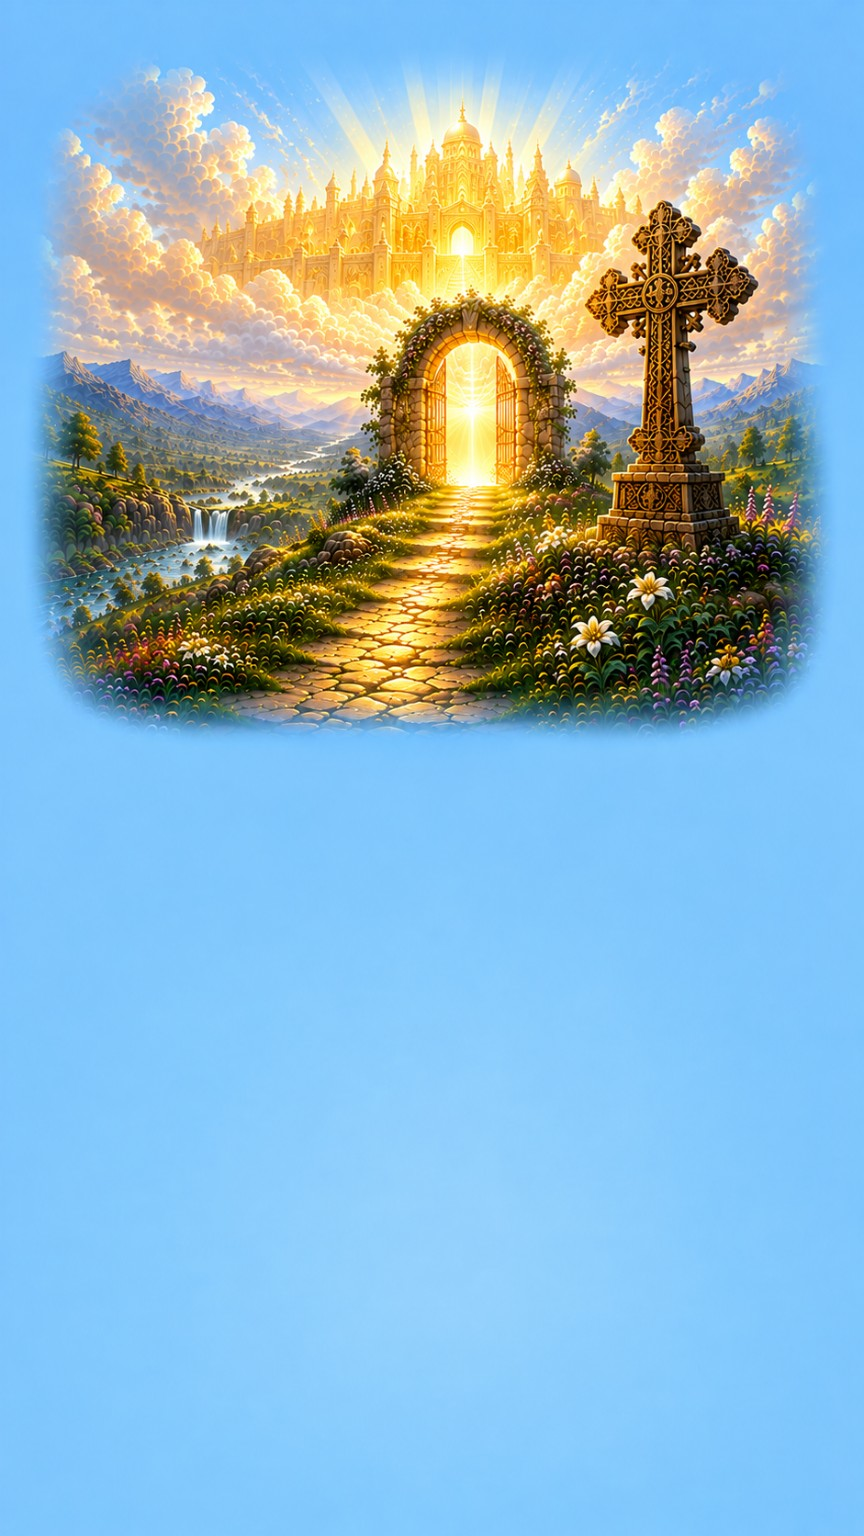
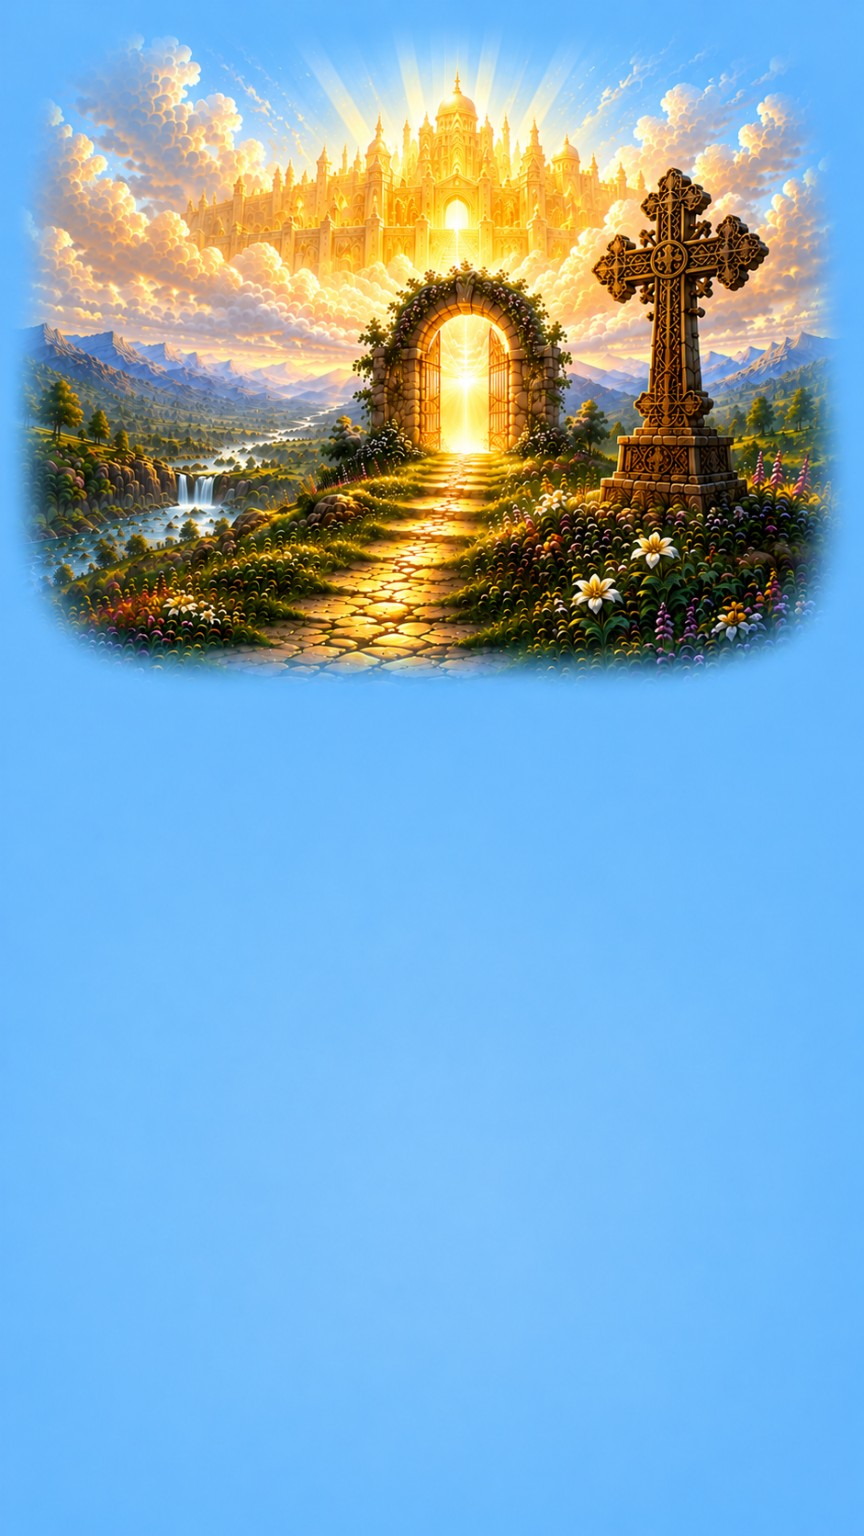
Add files via upload

diff --git a/sw.js b/sw.js
@@ -1,5 +1,5 @@
-const CACHE_NAME="oraciones-v2-287-tarjetas-actualizadas";
-const CORE=["./","./index.html","./manifest.json?v=v3-1-263-sin-calendario","./jszip.min.js?v=v3-1-63-share-history-persist","./jszip.min.js","./styles.css?v=2.287","./themes.css?v=v3-1-63-share-history-persist","./welcome.js?v=v3-1-63-share-history-persist","./config.js?v=v3-1-63-share-history-persist","./utils.js?v=v3-1-63-share-history-persist","./recent.js?v=v3-1-63-share-history-persist","./versiculos.js?v=v3-1-64-share-history-persistence-fix","./theme-mode.js?v=v3-1-63-share-history-persist","./app.js?v=2.287","./patches.js?v=v3-1-63-share-history-persist","./routines.js?v=v2-215-busqueda-tarjeta-fix-directo","./routines.js","./moments.js?v=v3-1-123-catalogacion-mejorada","./moments.js","./counters-v3183.js?v=v3-1-263-sin-calendario","./counters-v3183.js","./styles.css","./themes.css","./welcome.js","./config.js","./utils.js","./recent.js","./versiculos.js","./theme-mode.js","./app.js","./patches.js","./cross-ethiopian-mask.png","./icon-notas-detallado-v2210.png","./icon-versiculo-dia-v3250.png","./icon-dia-noche-v3255.png","./icon-192.png","./icon-512.png","./bg-morning.webp","./bg-day.webp","./bg-sunset.webp","./bg-night.webp","./card-sabiduria-v2240.jpg?v=v3-1-258-lora-solo-textos-offline","./card-sabiduria-v2240.jpg","./routine-morning-bible-v2216.webp","./routine-night-bible-v2216.webp","./shared-card-new-jerusalem-v2217.png","./card-salvacion-v2219.jpg?v=v3-1-258-lora-solo-textos-offline","./card-oracion-v2219.jpg?v=v3-1-258-lora-solo-textos-offline","./card-espiritu-santo-v2219.jpg?v=v3-1-258-lora-solo-textos-offline","./card-misericordia-v2219.jpg?v=v3-1-258-lora-solo-textos-offline","./card-alabanza-v2219.jpg?v=v3-1-258-lora-solo-textos-offline","./card-fortaleza-v2219.jpg?v=v3-1-258-lora-solo-textos-offline","./card-amor-v2219.jpg?v=v3-1-258-lora-solo-textos-offline","./card-esperanza-v2219.jpg?v=v3-1-258-lora-solo-textos-offline","./card-juicio-v2219.jpg?v=v3-1-258-lora-solo-textos-offline","./card-fe-v2219.jpg?v=v3-1-258-lora-solo-textos-offline","./card-segunda-venida-v2219.jpg?v=v3-1-258-lora-solo-textos-offline","./card-reino-dios-v2230.jpg?v=v3-1-258-lora-solo-textos-offline","./card-santidad-v2230.jpg?v=v3-1-258-lora-solo-textos-offline","./card-cristo-es-dios-v2230.jpg?v=v3-1-258-lora-solo-textos-offline","./card-fe-nueva-v3261.png","./card-dios-v3261.png","./Lora-Regular.woff2","./Lora-Bold.woff2","./Lora-Italic.woff2","./Lora-BoldItalic.woff2","./card-sabiduria-2-v31282.png","./card-vida-eterna-2-v31282.png","./card-alabanza-2-v31282.png","./card-amor-2-v31282.png","./card-juicio-2-v31282.png","./card-esperanza-2-v31282.png","./card-oracion-2-v31282.png","./card-descanso-2-v31282.png","./card-fortaleza-2-v31282.png","./card-espiritu-santo-2-v31282.png","./card-misericordia-2-v31282.png","./card-salvacion-2-v31282.png","./card-segunda-venida-2-v31282.png","./card-reino-dios-2-v31282.png","./card-santidad-2-v31282.png","./card-cristo-es-dios-2-v31282.png","./card-fe-2-v31282.png","./card-dios-2-v31282.png", "./card-amor-3-v2287.png", "./card-salvacion-3-v2287.png", "./card-vida-eterna-3-v2287.png"];
+const CACHE_NAME="oraciones-v2-290-tarjetas-cache";
+const CORE=["./","./index.html","./manifest.json?v=v3-1-263-sin-calendario","./jszip.min.js?v=v3-1-63-share-history-persist","./jszip.min.js","./styles.css?v=2.290","./themes.css?v=v3-1-63-share-history-persist","./welcome.js?v=v3-1-63-share-history-persist","./config.js?v=v3-1-63-share-history-persist","./utils.js?v=v3-1-63-share-history-persist","./recent.js?v=v3-1-63-share-history-persist","./versiculos.js?v=v3-1-64-share-history-persistence-fix","./theme-mode.js?v=v3-1-63-share-history-persist","./app.js?v=2.290","./patches.js?v=v3-1-63-share-history-persist","./routines.js?v=v2-215-busqueda-tarjeta-fix-directo","./routines.js","./moments.js?v=v3-1-123-catalogacion-mejorada","./moments.js","./counters-v3183.js?v=v3-1-263-sin-calendario","./counters-v3183.js","./styles.css","./themes.css","./welcome.js","./config.js","./utils.js","./recent.js","./versiculos.js","./theme-mode.js","./app.js","./patches.js","./cross-ethiopian-mask.png","./icon-notas-detallado-v2210.png","./icon-versiculo-dia-v3250.png","./icon-dia-noche-v3255.png","./icon-192.png","./icon-512.png","./bg-morning.webp","./bg-day.webp","./bg-sunset.webp","./bg-night.webp","./card-sabiduria-v2240.jpg?v=v3-1-258-lora-solo-textos-offline","./card-sabiduria-v2240.jpg","./routine-morning-bible-v2216.webp","./routine-night-bible-v2216.webp","./shared-card-new-jerusalem-v2217.png","./card-salvacion-v2219.jpg?v=v3-1-258-lora-solo-textos-offline","./card-oracion-v2219.jpg?v=v3-1-258-lora-solo-textos-offline","./card-espiritu-santo-v2219.jpg?v=v3-1-258-lora-solo-textos-offline","./card-misericordia-v2219.jpg?v=v3-1-258-lora-solo-textos-offline","./card-alabanza-v2219.jpg?v=v3-1-258-lora-solo-textos-offline","./card-fortaleza-v2219.jpg?v=v3-1-258-lora-solo-textos-offline","./card-amor-v2219.jpg?v=v3-1-258-lora-solo-textos-offline","./card-esperanza-v2219.jpg?v=v3-1-258-lora-solo-textos-offline","./card-juicio-v2219.jpg?v=v3-1-258-lora-solo-textos-offline","./card-fe-v2219.jpg?v=v3-1-258-lora-solo-textos-offline","./card-segunda-venida-v2219.jpg?v=v3-1-258-lora-solo-textos-offline","./card-reino-dios-v2230.jpg?v=v3-1-258-lora-solo-textos-offline","./card-santidad-v2230.jpg?v=v3-1-258-lora-solo-textos-offline","./card-cristo-es-dios-v2230.jpg?v=v3-1-258-lora-solo-textos-offline","./card-fe-nueva-v3261.png","./card-dios-v3261.png","./Lora-Regular.woff2","./Lora-Bold.woff2","./Lora-Italic.woff2","./Lora-BoldItalic.woff2","./card-sabiduria-2-v31282.png","./card-vida-eterna-2-v31282.png","./card-alabanza-2-v31282.png","./card-amor-2-v31282.png","./card-juicio-2-v31282.png","./card-esperanza-2-v31282.png","./card-oracion-2-v31282.png","./card-descanso-2-v31282.png","./card-fortaleza-2-v31282.png","./card-espiritu-santo-2-v31282.png","./card-misericordia-2-v31282.png","./card-salvacion-2-v31282.png","./card-segunda-venida-2-v31282.png","./card-reino-dios-2-v31282.png","./card-santidad-2-v31282.png","./card-cristo-es-dios-2-v31282.png","./card-fe-2-v31282.png","./card-dios-2-v31282.png", "./card-amor-3-v2287.png", "./card-salvacion-3-v2287.png", "./card-vida-eterna-3-v2287.png"];
 self.addEventListener("install",event=>{event.waitUntil((async()=>{const keys=await caches.keys();await Promise.all(keys.map(k=>caches.delete(k)));const cache=await caches.open(CACHE_NAME);await cache.addAll(CORE);})());self.skipWaiting();});
 self.addEventListener("activate",event=>{event.waitUntil((async()=>{const keys=await caches.keys();await Promise.all(keys.filter(k=>k!==CACHE_NAME).map(k=>caches.delete(k)));await self.clients.claim();})());});
 self.addEventListener("fetch",event=>{

diff --git a/app.js b/app.js
@@ -3737,7 +3737,7 @@ function renderCardCategoriesV31282(){
   grid.classList.add('card-category-grid-v31282');
   grid.innerHTML=CARD_CATEGORY_CATALOG_V31282.map(category=>{
     const first=category.designs[0];
-    return `<button class="card-category-option-v31282" type="button" onclick="openCardCategoryV31282('${category.id}')"><strong class="card-category-title-v31285">${cardCategoryEscapeV31282(category.label)}</strong><img src="${first.src}?v=2.287" alt="" aria-hidden="true"><span class="card-category-footer-v31285"><small>${category.designs.length} diseños</small><b aria-hidden="true">›</b></span></button>`;
+    return `<button class="card-category-option-v31282" type="button" onclick="openCardCategoryV31282('${category.id}')"><strong class="card-category-title-v31285">${cardCategoryEscapeV31282(category.label)}</strong><img src="${first.src}?v=2.290" alt="" aria-hidden="true"><span class="card-category-footer-v31285"><small>${category.designs.length} diseños</small><b aria-hidden="true">›</b></span></button>`;
   }).join('');
 }
 function openCardCategoryV31282(categoryId){
@@ -3754,7 +3754,7 @@ function openCardCategoryV31282(categoryId){
   if(!grid)return;
   grid.classList.remove('card-category-grid-v31282');
   grid.classList.add('card-design-grid-v31282');
-  grid.innerHTML=category.designs.map((design,index)=>`<button class="card-design-option-v31282" type="button" onclick="chooseCardStyleV2217('${design.style}')"><img src="${design.src}?v=2.287" alt="Diseño ${index+1} de ${cardCategoryEscapeV31282(category.label)}"><span><strong>Diseño ${index+1}</strong><small>${cardCategoryEscapeV31282(category.label)}</small></span></button>`).join('');
+  grid.innerHTML=category.designs.map((design,index)=>`<button class="card-design-option-v31282" type="button" onclick="chooseCardStyleV2217('${design.style}')"><img src="${design.src}?v=2.290" alt="Diseño ${index+1} de ${cardCategoryEscapeV31282(category.label)}"><span><strong>Diseño ${index+1}</strong><small>${cardCategoryEscapeV31282(category.label)}</small></span></button>`).join('');
 }
 function backToCardCategoriesV31282(){renderCardCategoriesV31282();}
 

diff --git a/index.html b/index.html
@@ -20,7 +20,7 @@
 
 <link rel="preload" as="image" href="routine-morning-bible-v2216.webp">
 <link rel="preload" as="image" href="routine-night-bible-v2216.webp">
-<link rel="stylesheet" href="styles.css?v=2.287">
+<link rel="stylesheet" href="styles.css?v=2.290">
 <link rel="stylesheet" href="themes.css?v=v3-1-63-share-history-persist">
 
 <style>
@@ -438,7 +438,7 @@ button .inline-faith-cross-v3193{width:1em;height:1.12em}
 <script src="versiculos.js?v=v3-1-64-share-history-persistence-fix"></script>
 <script src="theme-mode.js?v=v3-1-54-new-verse-category-choice"></script>
 <script src="jszip.min.js?v=v3-1-63-share-history-persist"></script>
-<script src="app.js?v=2.287"></script>
+<script src="app.js?v=2.290"></script>
 <script src="patches.js?v=v3-1-63-share-history-persist"></script>
 <script src="routines.js?v=v2-215-busqueda-tarjeta-fix-directo"></script>
 <script src="moments.js?v=v3-1-123-catalogacion-mejorada"></script>
